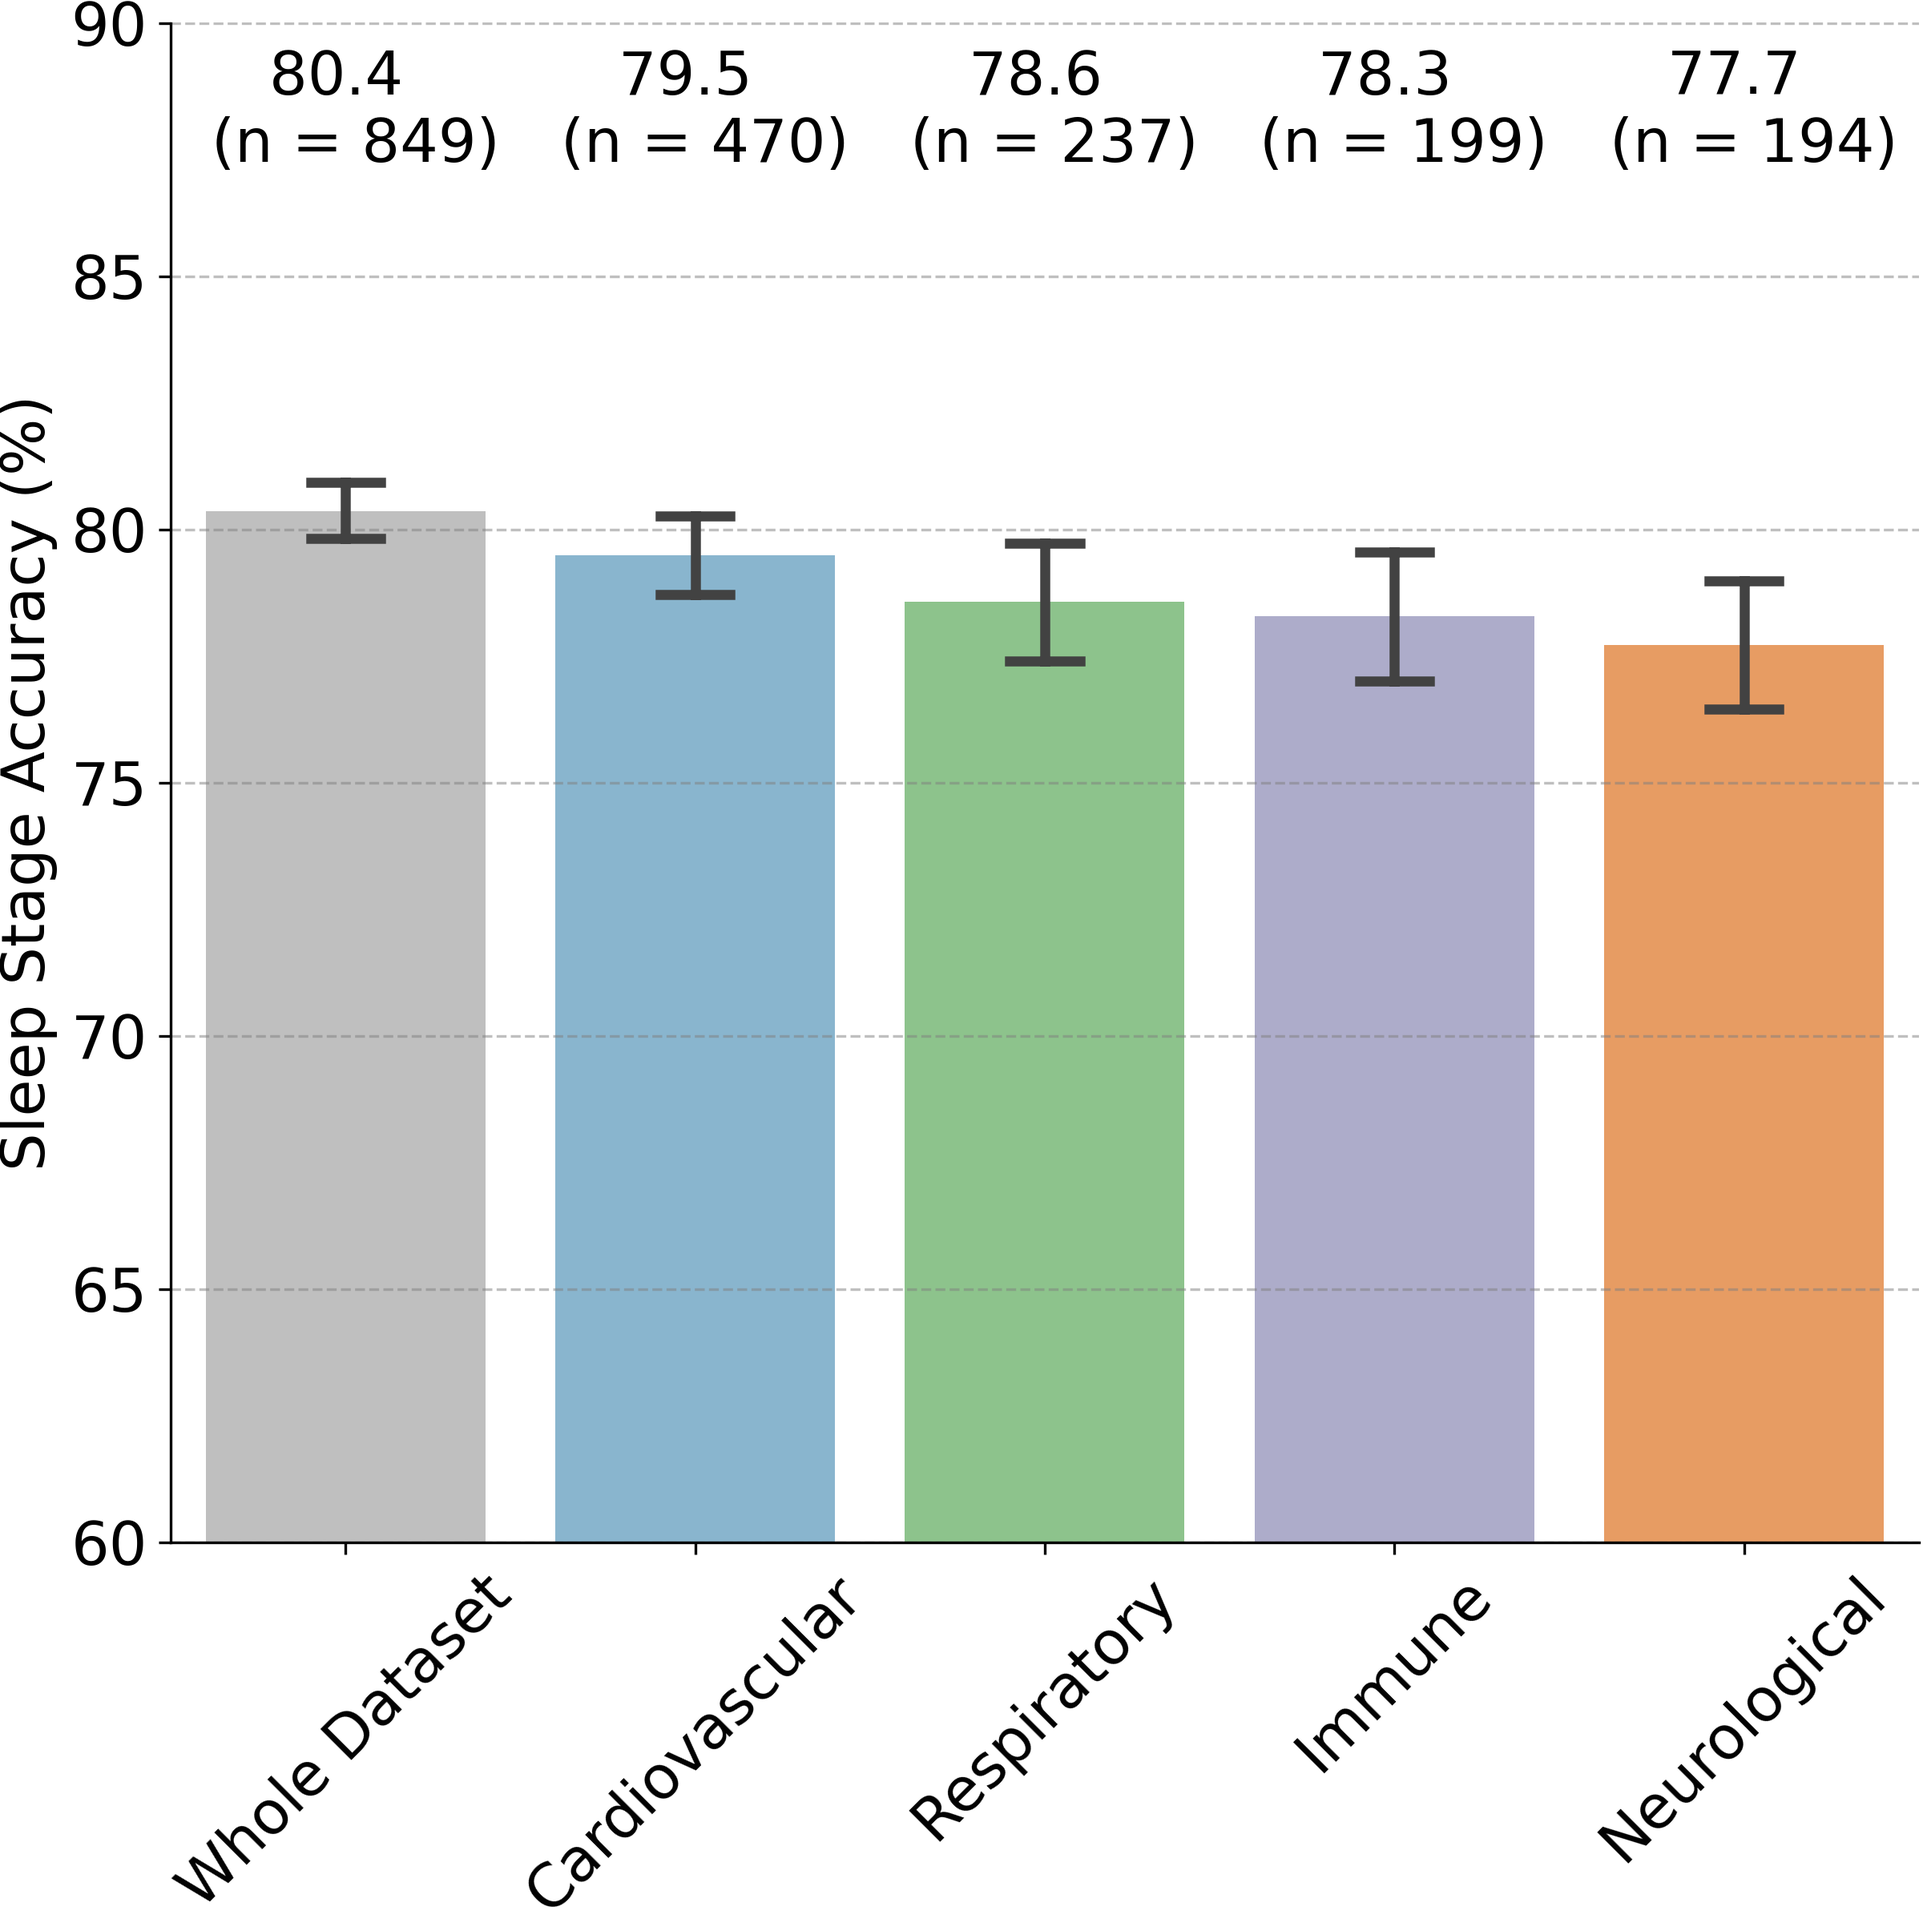
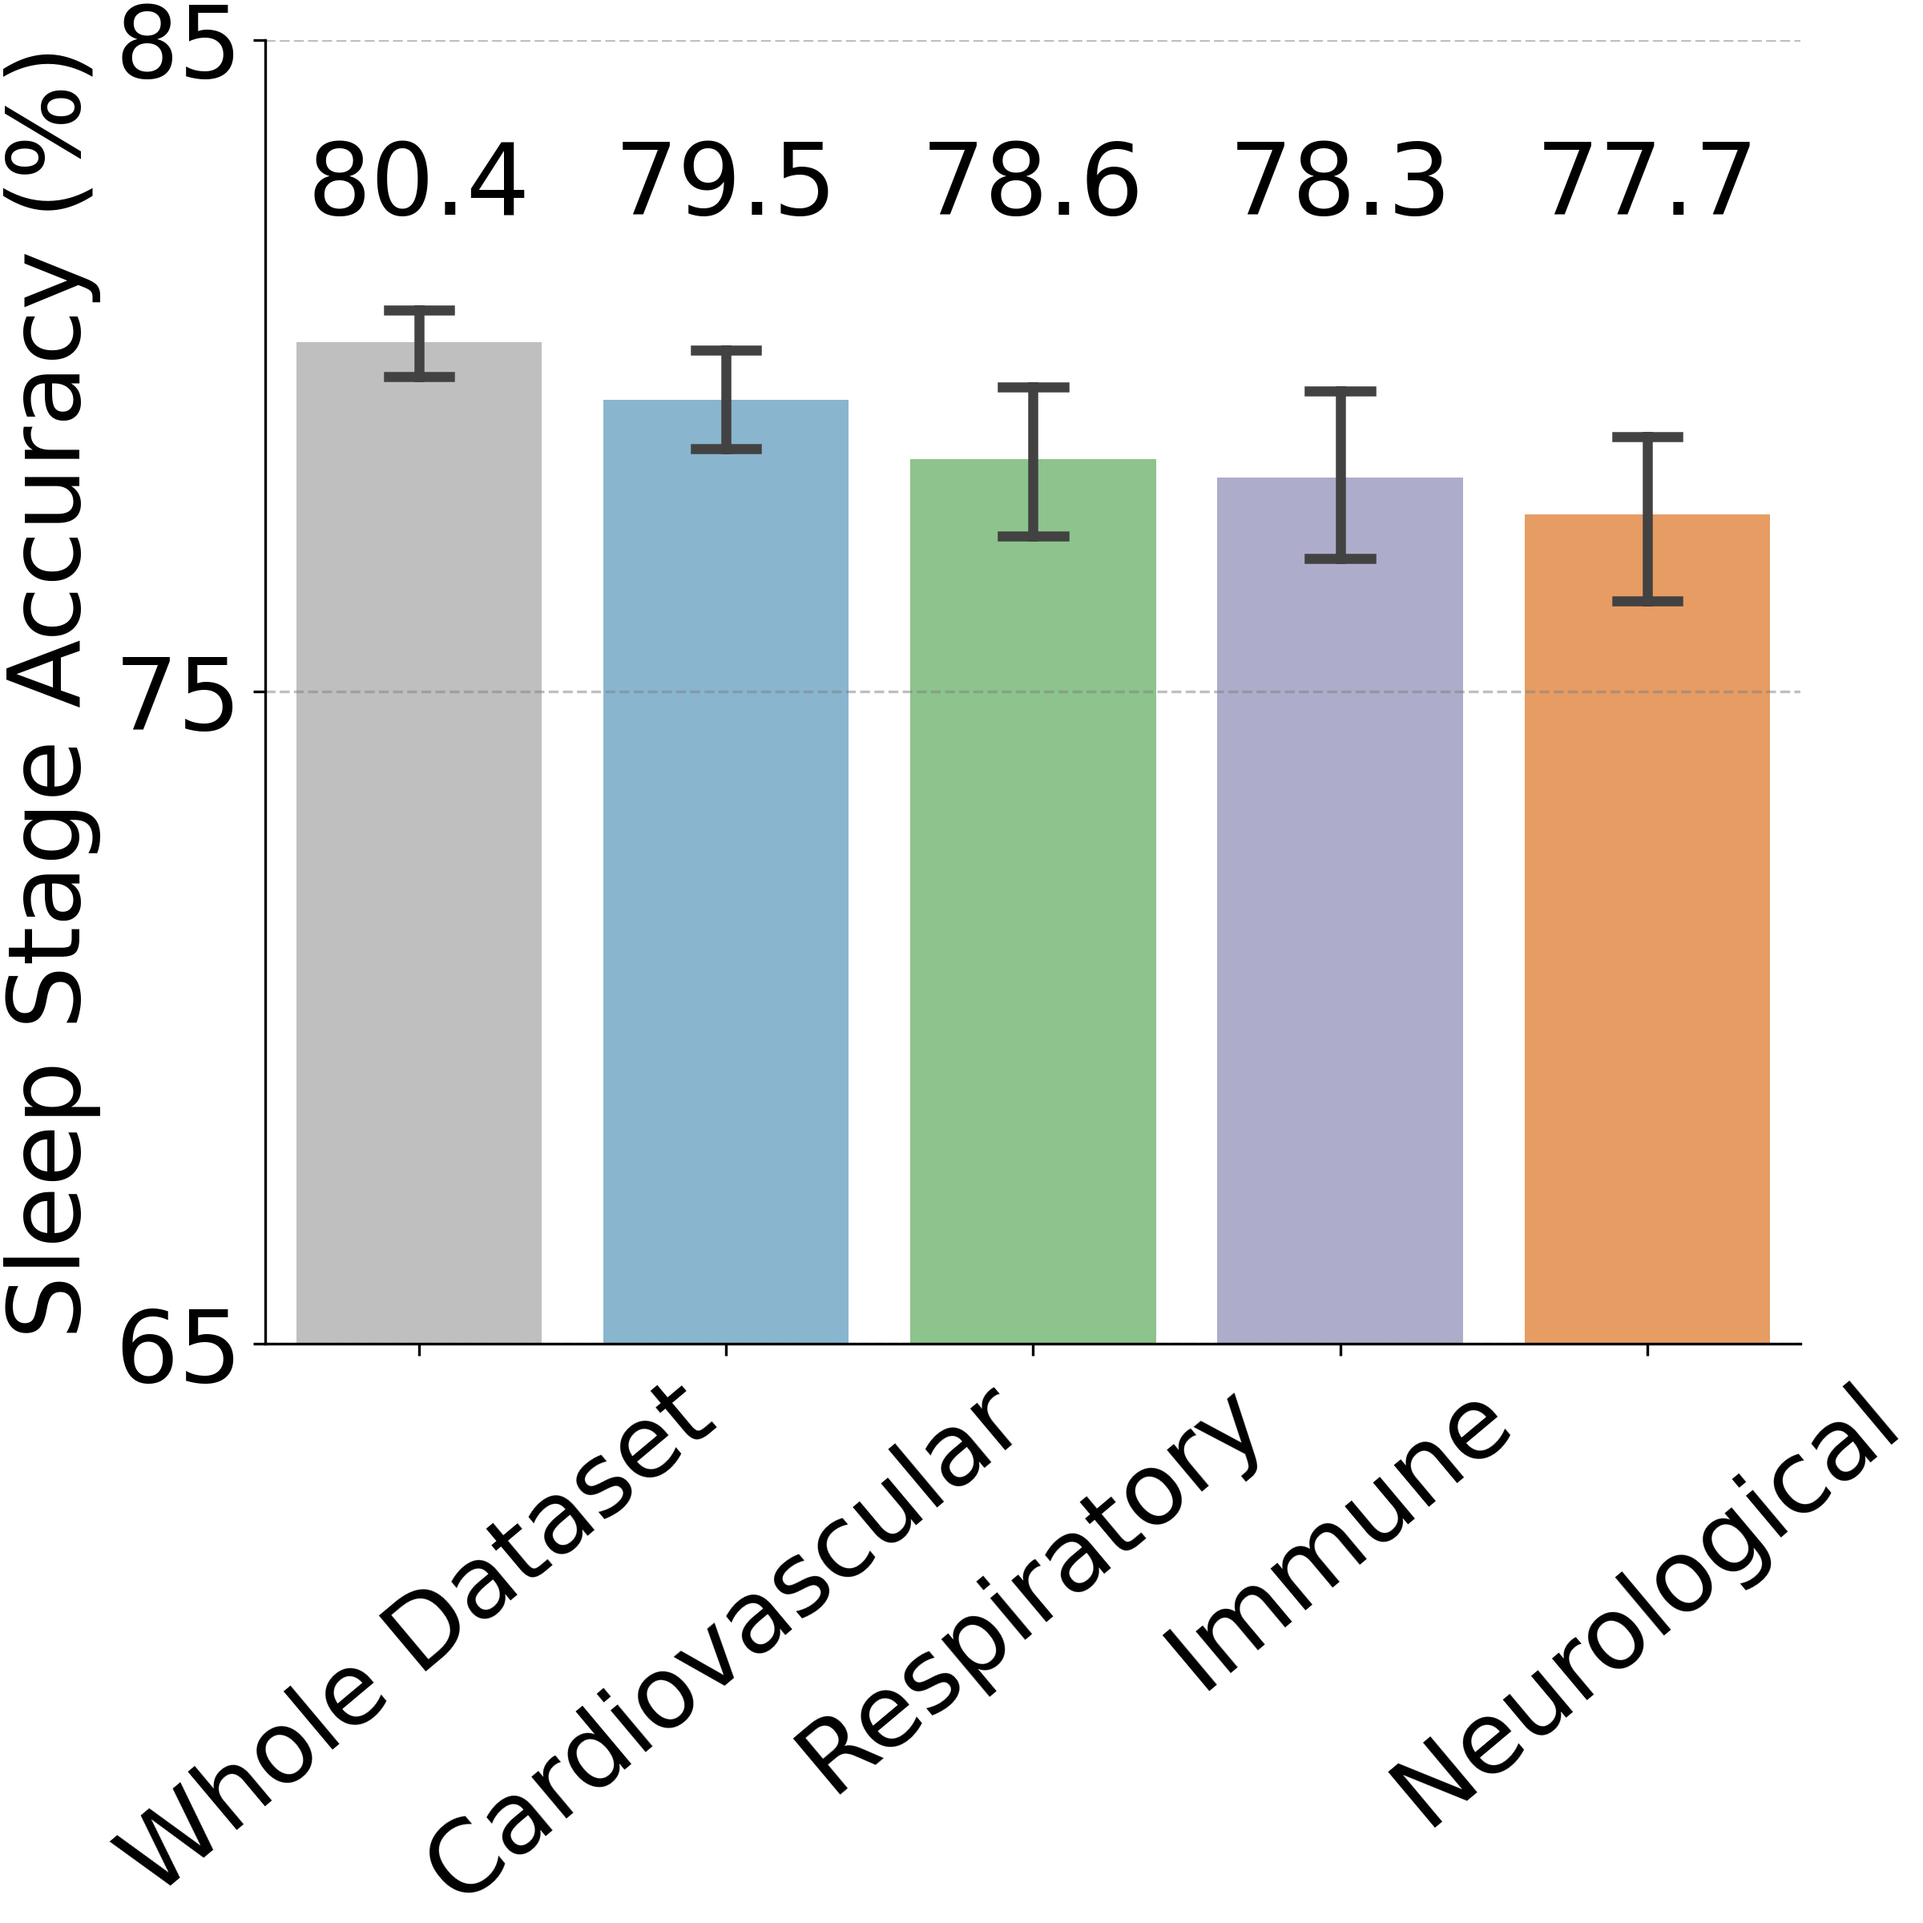
adjust font size

diff --git a/adjust_font_size/fig4c.py b/adjust_font_size/fig4c.py
@@ -39,7 +39,7 @@ def plot_rows(plot_df, p_values_df_for_metric, yname, title_name, plot_name, viz
         include_medication = False
 
     if include_medication:
-        fig, ax = plt.subplots(1, 1, figsize=(3, 4), sharey=True)
+        fig, ax = plt.subplots(1, 1, figsize=(3, 5), sharey=True)
 
         # sns.boxplot(x = "On Medication", y = yname, data = plot_df, showfliers = False, palette = [palette[6], palette[1], palette[2]], ax = ax, showcaps = False, width = bar_width)
 
@@ -75,10 +75,15 @@ def plot_rows(plot_df, p_values_df_for_metric, yname, title_name, plot_name, viz
         n_control = p_values_df_for_metric['Num Control'].iloc[0]
         n_meds = p_values_df_for_metric['Num On Meds'].iloc[0]
         n_no_meds = p_values_df_for_metric['Num No Meds'].iloc[0]
+        # ax.set_xticklabels([
+        #     f"Control\n(n={n_control})",
+        #     f"Meds\n(n={n_meds})",
+        #     f"No Meds\n(n={n_no_meds})"]
+        # )
         ax.set_xticklabels([
-            f"Control\n(n={n_control})",
-            f"Meds\n(n={n_meds})",
-            f"No Meds\n(n={n_no_meds})"]
+            f"Control",
+            f"Meds",
+            f"No Meds"],rotation=40,
         )
 
         # add statistical significance
@@ -101,7 +106,7 @@ def plot_rows(plot_df, p_values_df_for_metric, yname, title_name, plot_name, viz
 
 
     else:
-        fig, ax = plt.subplots(1, 1, figsize=(2.5, 4), sharey=True)
+        fig, ax = plt.subplots(1, 1, figsize=(2.5, 5), sharey=True)
         # sns.boxplot(x = "On Medication", y = yname, data = plot_df, showfliers = False, palette = [palette[5], palette[1]], ax = ax, showcaps = False, width = bar_width)
 
         bp = plt.boxplot([plot_df[plot_df["On Medication"] == "Control"][yname].values,
@@ -118,10 +123,14 @@ def plot_rows(plot_df, p_values_df_for_metric, yname, title_name, plot_name, viz
         if title_name == 'rheumatoid_arthritis':
             display_name = 'RA'
 
+        # ax.set_xticklabels([
+        #     f"Control\n(n={n_control})",
+        #     f"{display_name}\n(n={n_dx})",
+        # ])
         ax.set_xticklabels([
-            f"Control\n(n={n_control})",
-            f"{display_name}\n(n={n_dx})",
-        ])
+            f"Control",
+            f"{display_name}",
+        ],rotation=40)
 
         if False:
             for median in bp['medians']:
@@ -159,9 +168,10 @@ def plot_rows(plot_df, p_values_df_for_metric, yname, title_name, plot_name, viz
         # Drawing lines and annotations
         draw_significance_line(1, 2, y_line, y_sep, pval_to_stars(p_value_12), ax)
 
+    # font_size = 10
     # set the y tick labels to be 6
-    ax.tick_params(axis="y", labelsize=12)
-    ax.tick_params(axis="x", labelsize=12)
+    ax.tick_params(axis="y", labelsize=20)
+    ax.tick_params(axis="x", labelsize=20)
 
     # set the size of the y axis label to 12
     # ax.set_ylabel(yname, fontsize = 12)

diff --git a/adjust_font_size/fig4b.py b/adjust_font_size/fig4b.py
@@ -61,6 +61,23 @@ ds_tags_of_interests = {
     },
 }
 
+short_name_mapping = {
+    "myocardial infarction": "MI",
+    "hypertension": "HTN",
+    "valvular disease": "VD",
+    "congestive heart failure": "CHF",
+    "cardiac arrhythmias": "CA",
+    "peripheral vascular disease": "PVD",
+    "chronic pulmonary disease": "CPD",
+    "pulmonary circulation disorder": "PCD",
+    "rheumatoid arthritis": "RA",
+    "diabetes": "DIAB",
+    "cancer": "CANC",
+    "cerebrovascular disease": "CVD",
+    "dementia": "DEM",
+    "other neurological disorders": "OND",
+}
+
 all_data = []
 all_color = []
 all_text = []
@@ -99,7 +116,8 @@ for dx_type, dx_tags in ds_tags_of_interests[ds].items():
     for i, acc in enumerate(data):
         num_samples = len(acc)
         mean_acc = np.mean(acc)
-        text.append("%.1f \n (n = %d)" % (mean_acc, num_samples))
+        # text.append("%.1f \n (n = %d)" % (mean_acc, num_samples))
+        text.append("%.1f" % (mean_acc))
 
     # assign dx_tags_color with the tab10 colormap
     dx_tags_color = {}
@@ -123,7 +141,8 @@ for dx_type, dx_tags in ds_tags_of_interests[ds].items():
 
     colors = [dx_tags_color[dx_tag] for dx_tag in dx_tags]  # [::-1]
 
-    dx_labels = dx_tags
+    # dx_labels = dx_tags
+    dx_labels = [short_name_mapping[tag] for tag in dx_tags]
 
     if dx_type != 'Cardiovascular':
         all_data += [np.array([0])]
@@ -144,11 +163,11 @@ print(all_data)
 for data in all_data:
     print(np.mean(data), '+-', np.std(data))
 
-fontsize = 15
+fontsize = 30
 
 # label the mean accuracy at the top of the bar, with the total number of samples
 for i, text in enumerate(all_text):
-    ax.text(i, 87, text, ha="center", va="bottom", fontsize=fontsize)
+    ax.text(i, 83, text, ha="center", va="bottom", fontsize=fontsize)
 
 # def func(x):
 #     if len(x) < 30:
@@ -159,9 +178,10 @@ for i, text in enumerate(all_text):
 #         return ''.join([" "] * l) + x + ''.join([" "] * r)
 #     return x
 # all_xlabels = [func(x) for x in all_xlabels]
-ax.set_xticks(np.arange(len(all_xlabels)), all_xlabels, rotation=45)
+ax.set_xticks(np.arange(len(all_xlabels)), all_xlabels, rotation=0)
 # ax.set_ylabel("Sleep Stage Accuracy (%)")
-ax.set_ylim(bottom=60, top=90)
+ax.set_ylim(bottom=60, top=85)
+ax.set_yticks(np.arange(60, 86, 5))
 
 # add title as the ds
 # ax.set_title(dx_type, fontsize=15)
@@ -184,5 +204,6 @@ plt.subplots_adjust(top=0.95, bottom=0.15, left=0.15, right=0.95, hspace=0.2, ws
 # ax.spines['bottom'].set_position(('data', 0))
 plt.tight_layout(pad=0)
 
+os.system("mkdir -p figures/fig4b")
 plt.savefig("figures/fig4b/%s_%s.png" % (ds, ch), dpi=300)
 plt.close()

diff --git a/adjust_font_size/fig4a.py b/adjust_font_size/fig4a.py
@@ -7,18 +7,18 @@ import seaborn as sns
 from sklearn.metrics import accuracy_score
 from tqdm import tqdm
 
-# ds_list = ["mgh", "shhs", "wsc", "mros"]
-# ch_list = ["rf", "thorax", "thorax", "thorax"]
+ds_list = ["mgh", "shhs", "wsc", "mros"]
+ch_list = ["rf", "thorax", "thorax", "thorax"]
 
-ds_list = ["shhs1"]
-ch_list = ["thorax"]
+# ds_list = ["shhs1"]
+# ch_list = ["thorax"]
 
 ds_ch_list = zip(ds_list, ch_list)
 
 dx_cats = ["all", "cardiovascular", "respiratory", "immune", "neurological"]
 dx_labels = ["Whole Dataset", "Cardiovascular", "Respiratory", "Immune", "Neurological"]
 
-dx_cats_color = {"all": sns.color_palette("Grays", 10)[3],
+dx_cats_color = {"all": sns.color_palette("Greys", 10)[3],
                  "cardiovascular": sns.color_palette("Blues", 10)[4],
                  "respiratory": sns.color_palette("Greens", 10)[4],
                  "immune": sns.color_palette("Purples", 10)[4],
@@ -100,7 +100,7 @@ for ds, ch in ds_ch_list:
         # ignore if mean acc is nan
         if not np.isnan(mean_acc):
             # ax.text(i, 87, "%.1f \n (n = %d)" % (mean_acc, num_samples), ha="center", va="bottom", fontsize=18)
-            ax.text(i, 87, "%.1f" % (mean_acc), ha="center", va="bottom", fontsize=FONT_SIZE)
+            ax.text(i, 86, "%.1f" % (mean_acc), ha="center", va="bottom", fontsize=FONT_SIZE)
 
     x_pos = np.arange(len(dx_cats))
 
@@ -109,9 +109,13 @@ for ds, ch in ds_ch_list:
     ax.set_ylabel("Sleep Stage Accuracy (%)")
     ax.set_ylim(bottom=60, top=90)
 
+    # let yticks to be every 10
+    ax.set_yticks(np.arange(65, 86, 5))
+
     # increase the font size of the x and y ticks
-    plt.xticks(fontsize=FONT_SIZE, rotation=60)
-    plt.yticks(fontsize=FONT_SIZE)
+    ax.xaxis.set_tick_params(labelsize=FONT_SIZE, rotation=40)
+    ax.yaxis.set_tick_params(labelsize=FONT_SIZE)
+    ax.xaxis.label.set_size(FONT_SIZE)
     ax.yaxis.label.set_size(FONT_SIZE)
 
     # remove all spines
@@ -123,5 +127,6 @@ for ds, ch in ds_ch_list:
 
     plt.tight_layout(pad=0)
 
+    os.system("mkdir -p figures/fig4a")
     plt.savefig("figures/fig4a/%s_%s.png" % (ds, ch), dpi=300)
     plt.close()

diff --git a/visualizations/fig4a.py b/visualizations/fig4a.py
@@ -18,7 +18,7 @@ ds_ch_list = zip(ds_list, ch_list)
 dx_cats = ["all", "cardiovascular", "respiratory", "immune", "neurological"]
 dx_labels = ["Whole Dataset", "Cardiovascular", "Respiratory", "Immune", "Neurological"]
 
-dx_cats_color = {"all": sns.color_palette("Grays", 10)[3],
+dx_cats_color = {"all": sns.color_palette("Greys", 10)[3],
                  "cardiovascular": sns.color_palette("Blues", 10)[4],
                  "respiratory": sns.color_palette("Greens", 10)[4],
                  "immune": sns.color_palette("Purples", 10)[4],
